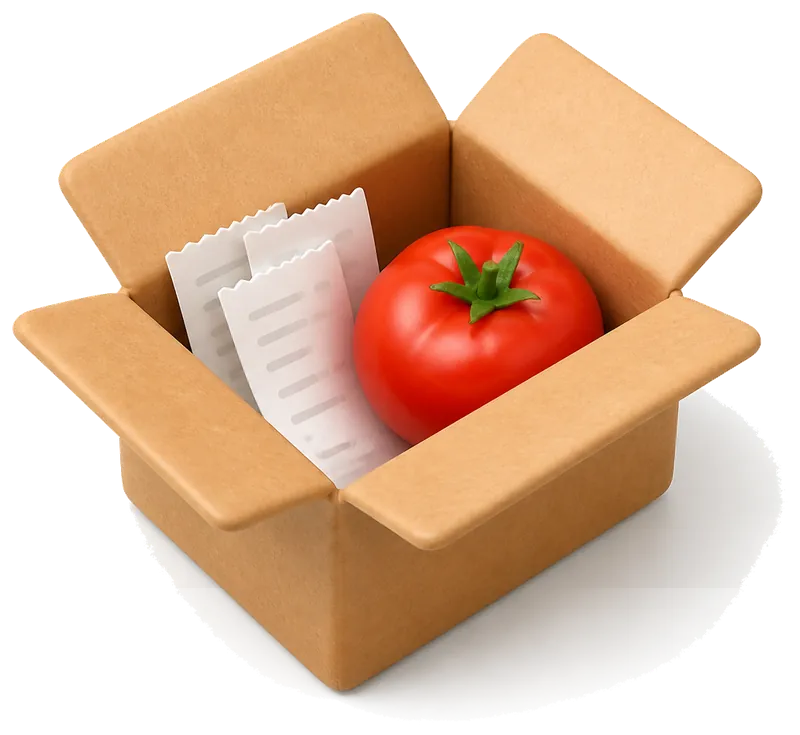
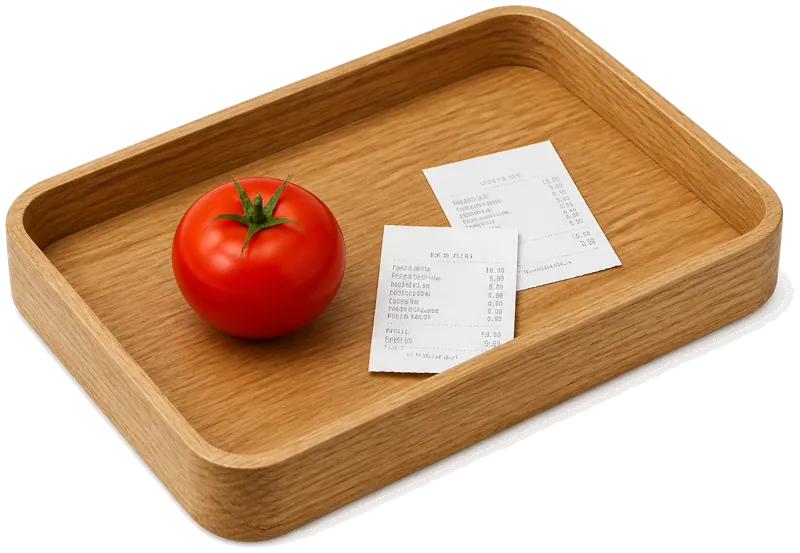
Sort August into Rahul's oak boxes.
Same wooden tray for the stuffed month inbox and every category pile; kraft cardboard is gone.

diff --git a/index.html b/index.html
@@ -6,7 +6,8 @@
   <meta name="theme-color" content="#F2F2F7" />
   <title>ava — three homes</title>
   <link rel="stylesheet" href="apple.css" />
-  <link rel="preload" as="image" href="assets/3d/wood-tray.webp" type="image/webp">
+  <link rel="preload" as="image" href="assets/3d/tray-full.webp" type="image/webp">
+  <link rel="preload" as="image" href="assets/3d/box-groceries.webp" type="image/webp">
 </head>
 <body>
   <main class="phone chooser">
@@ -25,79 +26,47 @@
     </div>
     <div class="large-title">
       <h1>ava</h1>
-      <p class="sub">same app, three homes. items are receipts.</p>
+      <p class="sub">one oak box, many piles. items are receipts.</p>
     </div>
     
 
     <a class="home-pick" href="studio.html">
       <div class="art">
-        <div class="tray-stage">
-          <img src="assets/3d/wood-tray.webp" width="800" height="679" alt="" fetchpriority="high" decoding="async" style="aspect-ratio:800/679">
-          <div class="tray-well" aria-hidden="true">
-            <article class="slip slip-mini" style="top:6%;left:6%;transform:rotate(-11deg);z-index:1">
-              <div class="m">SUSHI RAN</div><div class="d">25 AUG</div><div class="t">TOTAL ₹68.00</div>
-              <div class="barcode-ticks"></div>
-            </article>
-            <article class="slip slip-mini" style="top:10%;left:38%;transform:rotate(8deg);z-index:2">
-              <div class="m">IKEA</div><div class="d">22 AUG</div><div class="t">TOTAL ₹89.00</div>
-              <div class="barcode-ticks"></div>
-            </article>
-            <article class="slip slip-mini" style="top:4%;left:64%;transform:rotate(-5deg);z-index:3">
-              <div class="m">CHIPOTLE</div><div class="d">20 AUG</div><div class="t">TOTAL ₹14.85</div>
-              <div class="barcode-ticks"></div>
-            </article>
-            <article class="slip slip-mini" style="top:42%;left:10%;transform:rotate(7deg);z-index:4">
-              <div class="m">OTTIMO PIZZA</div><div class="d">18 AUG</div><div class="t">TOTAL ₹54.30</div>
-              <div class="barcode-ticks"></div>
-            </article>
-            <article class="slip slip-mini" style="top:46%;left:48%;transform:rotate(-12deg);z-index:5">
-              <div class="m">AMC</div><div class="d">16 AUG</div><div class="t">TOTAL ₹24.00</div>
-              <div class="barcode-ticks"></div>
-            </article>
-          </div>
+        <div class="tray-stage stuffed">
+          <img src="assets/3d/tray-full.webp" width="800" height="546" alt="" fetchpriority="high" decoding="async" style="aspect-ratio:800/546">
         </div>
       </div>
       <div class="copy">
         <div class="kicker">Home A</div>
         <h2>Studio</h2>
-        <p>The month is a tray of paper. Tap a slip. Category boxes underneath, with live totals.</p>
+        <p>The month is his tray, stuffed. Four smaller oak boxes underneath to sort into.</p>
       </div>
     </a>
 
     <a class="home-pick" href="cells.html">
       <div class="art quad">
-        <img src="assets/3d/box-groceries.webp" width="800" height="735" alt="" loading="lazy" decoding="async" style="aspect-ratio:800/735">
-        <img src="assets/3d/box-coffee.webp" width="800" height="748" alt="" loading="lazy" decoding="async" style="aspect-ratio:800/748">
-        <img src="assets/3d/box-rides.webp" width="800" height="720" alt="" loading="lazy" decoding="async" style="aspect-ratio:800/720">
-        <img src="assets/3d/box-home.webp" width="800" height="726" alt="" loading="lazy" decoding="async" style="aspect-ratio:800/726">
+        <img src="assets/3d/box-groceries.webp" width="800" height="553" alt="" loading="lazy" decoding="async" style="aspect-ratio:800/553">
+        <img src="assets/3d/box-coffee.webp" width="800" height="562" alt="" loading="lazy" decoding="async" style="aspect-ratio:800/562">
+        <img src="assets/3d/box-rides.webp" width="800" height="455" alt="" loading="lazy" decoding="async" style="aspect-ratio:800/455">
+        <img src="assets/3d/box-home.webp" width="800" height="542" alt="" loading="lazy" decoding="async" style="aspect-ratio:800/542">
       </div>
       <div class="copy">
         <div class="kicker">Home B</div>
         <h2>Cells</h2>
-        <p>Four boxes fill the screen. Open one — the receipts are paper, not rows.</p>
+        <p>Four of his oak boxes. Same tray, different piles. Open one for that paper.</p>
       </div>
     </a>
 
     <a class="home-pick" href="table.html">
       <div class="art">
-        <div class="tray-stage compact">
-          <img src="assets/3d/wood-tray.webp" width="800" height="679" alt="" loading="lazy" decoding="async" style="aspect-ratio:800/679">
-          <div class="tray-well" aria-hidden="true">
-            <article class="slip slip-mini" style="top:8%;left:10%;transform:rotate(-9deg);z-index:1">
-              <div class="m">OTTIMO PIZZA</div><div class="d">18 AUG</div><div class="t">TOTAL ₹54.30</div>
-              <div class="barcode-ticks"></div>
-            </article>
-            <article class="slip slip-mini" style="top:20%;left:44%;transform:rotate(7deg);z-index:2">
-              <div class="m">BLUE BOTTLE</div><div class="d">12 AUG</div><div class="t">TOTAL ₹6.50</div>
-              <div class="barcode-ticks"></div>
-            </article>
-          </div>
+        <div class="tray-stage stuffed compact">
+          <img src="assets/3d/tray-full.webp" width="800" height="546" alt="" loading="lazy" decoding="async" style="aspect-ratio:800/546">
         </div>
       </div>
       <div class="copy">
         <div class="kicker">Home C</div>
         <h2>Table</h2>
-        <p>A wallet of thermal slips. Compact tray up top, boxes filter the stack.</p>
+        <p>Compact tray up top. His four boxes filter a wallet of thermal slips.</p>
       </div>
     </a>
 

diff --git a/apple.css b/apple.css
@@ -172,7 +172,7 @@ input {
   padding: 0 4px 10px; min-height: 44px; background: transparent;
 }
 .cat-tile img { width: 100%; filter: drop-shadow(0 10px 16px rgba(0,0,0,0.10)); }
-.cat-tile .cap { margin-top: -8px; font-size: 13px; font-weight: 600; letter-spacing: -0.08px; }
+.cat-tile .cap { margin-top: 2px; font-size: 13px; font-weight: 600; letter-spacing: -0.08px; }
 .cat-tile .meta { margin-top: 2px; font-size: 13px; color: var(--label); font-variant-numeric: tabular-nums; }
 
 .cells-home { display: flex; flex-direction: column; height: 100%; min-height: 100%; }
@@ -186,7 +186,7 @@ input {
 }
 .cells-tile img, .home-tile img { width: 100%; filter: drop-shadow(0 12px 18px rgba(0,0,0,0.11)); }
 .cells-tile .cap, .home-tile .cap {
-  margin-top: -12px; font-size: 15px; font-weight: 600; letter-spacing: -0.3px;
+  margin-top: 2px; font-size: 15px; font-weight: 600; letter-spacing: -0.3px;
 }
 .cells-tile .meta, .home-tile .meta { margin-top: 1px; font-size: 13px; color: var(--label); font-variant-numeric: tabular-nums; }
 
@@ -198,7 +198,7 @@ input {
   padding: 0 4px 12px; min-height: 44px; background: transparent;
 }
 .boxes-tile img { width: 100%; filter: drop-shadow(0 12px 18px rgba(0,0,0,0.11)); }
-.boxes-tile .cap { margin-top: -8px; font-size: 15px; font-weight: 600; letter-spacing: -0.3px; }
+.boxes-tile .cap { margin-top: 2px; font-size: 15px; font-weight: 600; letter-spacing: -0.3px; }
 .boxes-tile .meta { margin-top: 2px; font-size: 13px; color: var(--label); font-variant-numeric: tabular-nums; }
 
 .wallet-hero, .wallet-id {
@@ -225,7 +225,7 @@ input {
   min-height: 44px; background: transparent;
 }
 .snap-card img { width: 100%; filter: drop-shadow(0 10px 14px rgba(0,0,0,0.11)); }
-.snap-card .cap { margin-top: -8px; font-size: 13px; font-weight: 600; letter-spacing: -0.08px; }
+.snap-card .cap { margin-top: 2px; font-size: 13px; font-weight: 600; letter-spacing: -0.08px; }
 .snap-card .meta { font-size: 12px; color: var(--label); font-variant-numeric: tabular-nums; }
 
 .group { margin: 0 16px 16px; background: var(--card); border-radius: var(--radius); overflow: hidden; }
@@ -256,7 +256,7 @@ input {
 
 .cat-hero { display: flex; justify-content: center; padding: 4px 28px 0; background: transparent; }
 .cat-hero img { width: min(280px, 72%); filter: drop-shadow(0 16px 24px rgba(0,0,0,0.12)); }
-.cat-heading { text-align: center; padding: 0 16px 16px; margin-top: -8px; }
+.cat-heading { text-align: center; padding: 0 16px 16px; margin-top: 0; }
 .cat-heading h1 { font-size: 28px; font-weight: 700; letter-spacing: -0.5px; line-height: 34px; }
 .cat-heading .sum { margin-top: 2px; font-size: 22px; font-weight: 600; letter-spacing: -0.4px; font-variant-numeric: tabular-nums; }
 .cat-heading .sub { margin-top: 2px; font-size: 15px; color: var(--label); }
@@ -357,7 +357,7 @@ input {
   padding: 0 4px 8px; min-height: 44px; border-radius: 16px; background: transparent; position: relative;
 }
 .pick-tile img, .picker-tile img { width: 100%; filter: drop-shadow(0 8px 12px rgba(0,0,0,0.10)); }
-.pick-tile .cap, .picker-tile .cap { margin-top: -8px; font-size: 13px; font-weight: 600; letter-spacing: -0.08px; }
+.pick-tile .cap, .picker-tile .cap { margin-top: 2px; font-size: 13px; font-weight: 600; letter-spacing: -0.08px; }
 .pick-tile.on .cap { color: var(--blue); }
 .pick-tile.on img { filter: drop-shadow(0 8px 12px rgba(0,122,255,0.28)); }
 .pick-check {
@@ -559,7 +559,7 @@ input {
 }
 .slip-full .barcode.tall { height: 42px; margin: 12px 8px 4px; }
 
-/* tray with live paper — wood-tray.webp is the stage; slips sit in the inner floor */
+/* oak tray family — stuffed month tray, or empty well for live paper */
 .tray-stage {
   position: relative;
   display: block;
@@ -571,8 +571,12 @@ input {
   height: auto;
   display: block;
   filter: drop-shadow(0 16px 24px rgba(0,0,0,0.12));
-  aspect-ratio: 800 / 679;
+  object-fit: contain;
 }
+.tray-stage.stuffed { width: 90%; margin: 4px auto 10px; }
+.tray-stage.stuffed > img { aspect-ratio: 800 / 546; }
+.tray-stage.stuffed.compact { width: 58%; margin: 4px auto 12px; }
+
 /* Inner floor of the cropped 800×679 tray (measured):
    back of floor ~26% down, front rim ~79%;
    inner walls ~18% left / 12% right at the front, narrower at the back.
@@ -697,7 +701,7 @@ input {
   background: transparent;
 }
 .detail-box img { width: 100%; filter: drop-shadow(0 10px 14px rgba(0,0,0,0.11)); }
-.detail-box .cap { margin-top: -8px; font-size: 13px; font-weight: 600; }
+.detail-box .cap { margin-top: 2px; font-size: 13px; font-weight: 600; }
 
 .home-pick .art.split { position: relative; }
 .chooser-slip {
@@ -722,9 +726,9 @@ input {
   );
 }
 
-.cat-hero img { aspect-ratio: 800 / 730; object-fit: contain; }
+.cat-hero img { aspect-ratio: 800 / 540; object-fit: contain; }
 .cat-tile img, .cells-tile img, .boxes-tile img, .pick-tile img, .snap-card img {
-  aspect-ratio: 800 / 730;
+  aspect-ratio: 800 / 540;
   object-fit: contain;
 }
 

diff --git a/apple.js b/apple.js
@@ -10,12 +10,13 @@
     minimumFractionDigits: 2,
   });
 
-  const TRAY = { src: "assets/3d/wood-tray.webp", w: 800, h: 679 };
+  const TRAY = { src: "assets/3d/wood-tray.webp", w: 746, h: 800 };
+  const TRAY_FULL = { src: "assets/3d/tray-full.webp", w: 800, h: 546 };
   const CATS = [
-    { id: "groceries", label: "Groceries", img: "assets/3d/box-groceries.webp", w: 800, h: 735 },
-    { id: "coffee", label: "Coffee", img: "assets/3d/box-coffee.webp", w: 800, h: 748 },
-    { id: "rides", label: "Rides", img: "assets/3d/box-rides.webp", w: 800, h: 720 },
-    { id: "home", label: "Home", img: "assets/3d/box-home.webp", w: 800, h: 726 },
+    { id: "groceries", label: "Groceries", img: "assets/3d/box-groceries.webp", w: 800, h: 553 },
+    { id: "coffee", label: "Coffee", img: "assets/3d/box-coffee.webp", w: 800, h: 562 },
+    { id: "rides", label: "Rides", img: "assets/3d/box-rides.webp", w: 800, h: 455 },
+    { id: "home", label: "Home", img: "assets/3d/box-home.webp", w: 800, h: 542 },
   ];
   const CAT_OTHER = { id: "other", label: "Other", img: null };
 
@@ -183,6 +184,24 @@
   }
   function trayImg(alt, eager) {
     return imgHTML(TRAY.src, TRAY.w, TRAY.h, alt || "August tray", eager);
+  }
+  function trayFullImg(alt, eager) {
+    return imgHTML(TRAY_FULL.src, TRAY_FULL.w, TRAY_FULL.h, alt || "August tray", eager);
+  }
+
+  function trayFullHTML(opts) {
+    opts = opts || {};
+    const cls = ["tray-stage", "stuffed"];
+    if (opts.compact) cls.push("compact");
+    const hit = opts.hit === false
+      ? ""
+      : opts.filter
+        ? `<button class="tray-hit press" type="button" data-filter="${esc(opts.filter)}" aria-label="${esc(opts.label || "All receipts")}"></button>`
+        : `<button class="tray-hit press" type="button" data-act="${esc(opts.act || "all")}" aria-label="${esc(opts.label || "All August receipts")}"></button>`;
+    return `<div class="${cls.join(" ")}">
+      ${trayFullImg(opts.alt || "August tray", opts.eager !== false)}
+      ${hit}
+    </div>`;
   }
 
   function trayStageHTML(list, layout, opts) {
@@ -361,13 +380,12 @@
     const total = sum(list);
     const stats = catStats(list);
     const recent = sorted(list).slice(0, 4);
-    const onTray = sorted(list).slice(0, 6);
     return `${navHTML({ title: "ava" })}
       <div class="large-title">
         <h1>August</h1>
         <p class="sub"><span class="total">${money(total)}</span> · ${countWord(list.length)}</p>
       </div>
-      ${trayStageHTML(onTray, TRAY_LAYOUT, { eager: true, label: "All August receipts" })}
+      ${trayFullHTML({ eager: true, label: "All August receipts" })}
       <div class="cat-grid">
         ${stats.map((c, i) => `
           <button class="cat-tile press" type="button" data-cat="${c.id}" aria-label="${esc(c.label)}, ${money(c.total)}">
@@ -412,7 +430,7 @@
         <h1>August</h1>
         <p class="sub"><span class="total">${money(sum(shown))}</span> · ${countWord(shown.length)}${filterLabel ? " · " + esc(filterLabel) : ""}</p>
       </div>
-      ${trayStageHTML(sorted(shown).slice(0, 2), COMPACT_LAYOUT, { compact: true, eager: true, filter: "all", alt: "Tray", label: "All receipts" })}
+      ${trayFullHTML({ compact: true, eager: true, filter: "all", alt: "August tray", label: "All receipts" })}
       <div class="snap-row">
         ${stats.map((c, i) => `
           <button class="snap-card press ${state.filterCat === c.id ? "on" : ""}" type="button" data-filter="${c.id}" aria-label="Filter ${esc(c.label)}" aria-pressed="${state.filterCat === c.id}">
@@ -465,9 +483,11 @@
           <h1>August</h1>
           <p class="sub"><span class="total">${money(sum(items))}</span> · ${countWord(items.length)}</p>
         </div>
-        ${trayStageHTML(items, DRAWER_LAYOUT, { full: true, eager: true, hit: false, alt: "August tray" })}`;
+        ${trayFullHTML({ eager: true, hit: false, alt: "August tray" })}
+        <div class="wallet-stack">
+          ${sorted(items).map((r, i) => slipCard(r, i)).join("")}
+        </div>`;
     }
-    const wellClass = items.length > 4 ? "paper-drawer" : "paper-drawer cozy";
     return `${navHTML({ back: back, title: cat.label })}
       <div class="cat-hero">
         ${catImg(cat, cat.label, true)}
@@ -482,7 +502,7 @@
             <p>This box is empty. Add a receipt and it lands here.</p>
             <button class="btn" type="button" data-act="add" data-pref="${esc(catId || "")}">Add Receipt</button>
           </div>`
-        : `<div class="${wellClass}">${scatterHTML(items, CAT_LAYOUT)}</div>`}`;
+        : `<div class="wallet-stack">${sorted(items).map((r, i) => slipCard(r, i)).join("")}</div>`}`;
   }
 
   function detailHTML(id) {

diff --git a/studio.html b/studio.html
@@ -7,10 +7,11 @@
   <meta name="apple-mobile-web-app-capable" content="yes" />
   <title>ava — studio</title>
   <link rel="stylesheet" href="apple.css" />
-  <link rel="preload" as="image" href="assets/3d/wood-tray.webp" type="image/webp">
+  <link rel="preload" as="image" href="assets/3d/tray-full.webp" type="image/webp">
   <link rel="preload" as="image" href="assets/3d/box-groceries.webp" type="image/webp">
   <link rel="preload" as="image" href="assets/3d/box-coffee.webp" type="image/webp">
   <link rel="preload" as="image" href="assets/3d/box-rides.webp" type="image/webp">
+  <link rel="preload" as="image" href="assets/3d/box-home.webp" type="image/webp">
 </head>
 <body data-home="studio">
   <div id="root"></div>

diff --git a/table.html b/table.html
@@ -7,9 +7,11 @@
   <meta name="apple-mobile-web-app-capable" content="yes" />
   <title>ava — table</title>
   <link rel="stylesheet" href="apple.css" />
-  <link rel="preload" as="image" href="assets/3d/wood-tray.webp" type="image/webp">
+  <link rel="preload" as="image" href="assets/3d/tray-full.webp" type="image/webp">
   <link rel="preload" as="image" href="assets/3d/box-groceries.webp" type="image/webp">
   <link rel="preload" as="image" href="assets/3d/box-coffee.webp" type="image/webp">
+  <link rel="preload" as="image" href="assets/3d/box-rides.webp" type="image/webp">
+  <link rel="preload" as="image" href="assets/3d/box-home.webp" type="image/webp">
 </head>
 <body data-home="table">
   <div id="root"></div>

diff --git a/README.md b/README.md
@@ -1,15 +1,15 @@
 # ava
 
-Expense tracking as physical receipts. Same app, three homes. If it is an expense, it is a thermal paper slip. The 3D boxes are category containers.
+Expense tracking as physical receipts. Same app, three homes. One oak box, many piles. If it is an expense, it is a thermal paper slip.
 
 ## the product
 
 August, dummy data, currency ₹. Home / New / Boxes on every screen.
 
 - **Chooser** — [https://rayzorzrb.github.io/ava-receipts/](https://rayzorzrb.github.io/ava-receipts/)
-- **studio** — [studio.html](https://rayzorzrb.github.io/ava-receipts/studio.html) — the month is a tray of paper. Tap a slip. Category boxes underneath.
-- **cells** — [cells.html](https://rayzorzrb.github.io/ava-receipts/cells.html) — four 3D boxes fill the screen. Open one for that category’s slips.
-- **table** — [table.html](https://rayzorzrb.github.io/ava-receipts/table.html) — a wallet of thermal slips. Compact tray up top, boxes filter the stack.
+- **studio** — [studio.html](https://rayzorzrb.github.io/ava-receipts/studio.html) — the month is his tray, stuffed with paper. Four smaller oak boxes underneath to sort into.
+- **cells** — [cells.html](https://rayzorzrb.github.io/ava-receipts/cells.html) — four of his oak boxes fill the screen. Same tray, different piles. Open one for that category’s slips.
+- **table** — [table.html](https://rayzorzrb.github.io/ava-receipts/table.html) — compact tray up top, his boxes filter a wallet of thermal slips.
 
 Tap a slip for the full sheet. New prints a receipt into a box. Saved to `localStorage` (`ava-product-v1`).
 
